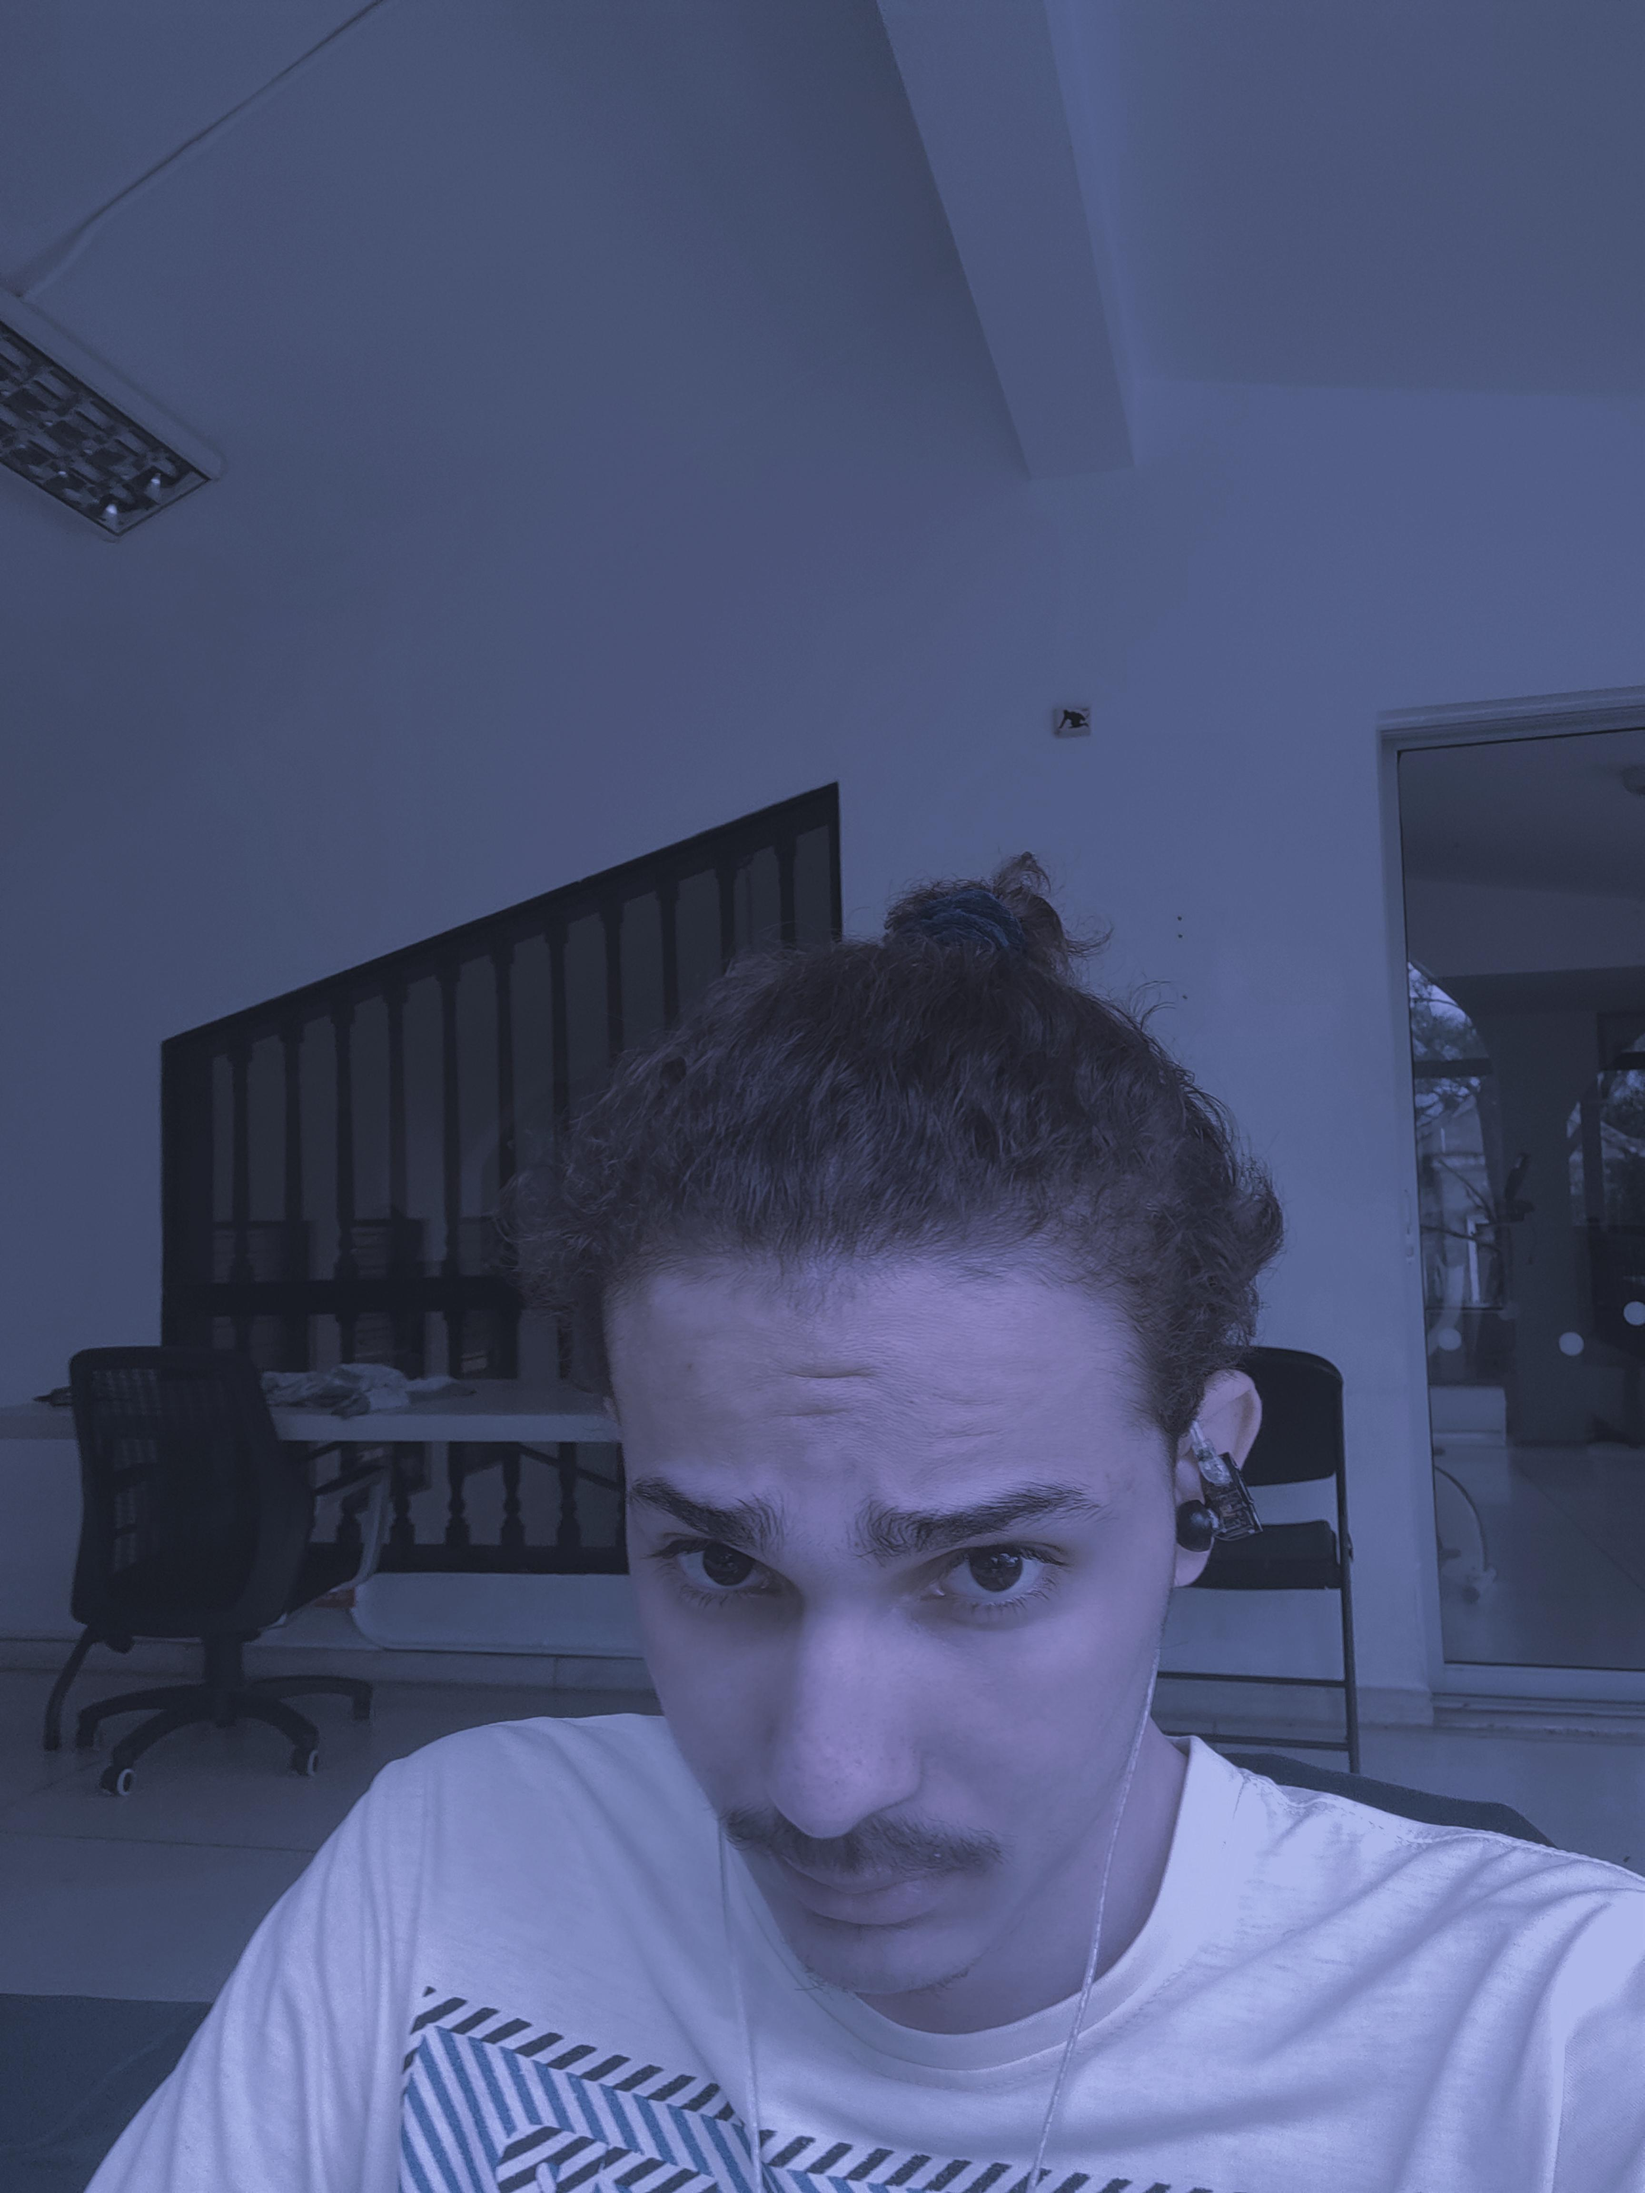
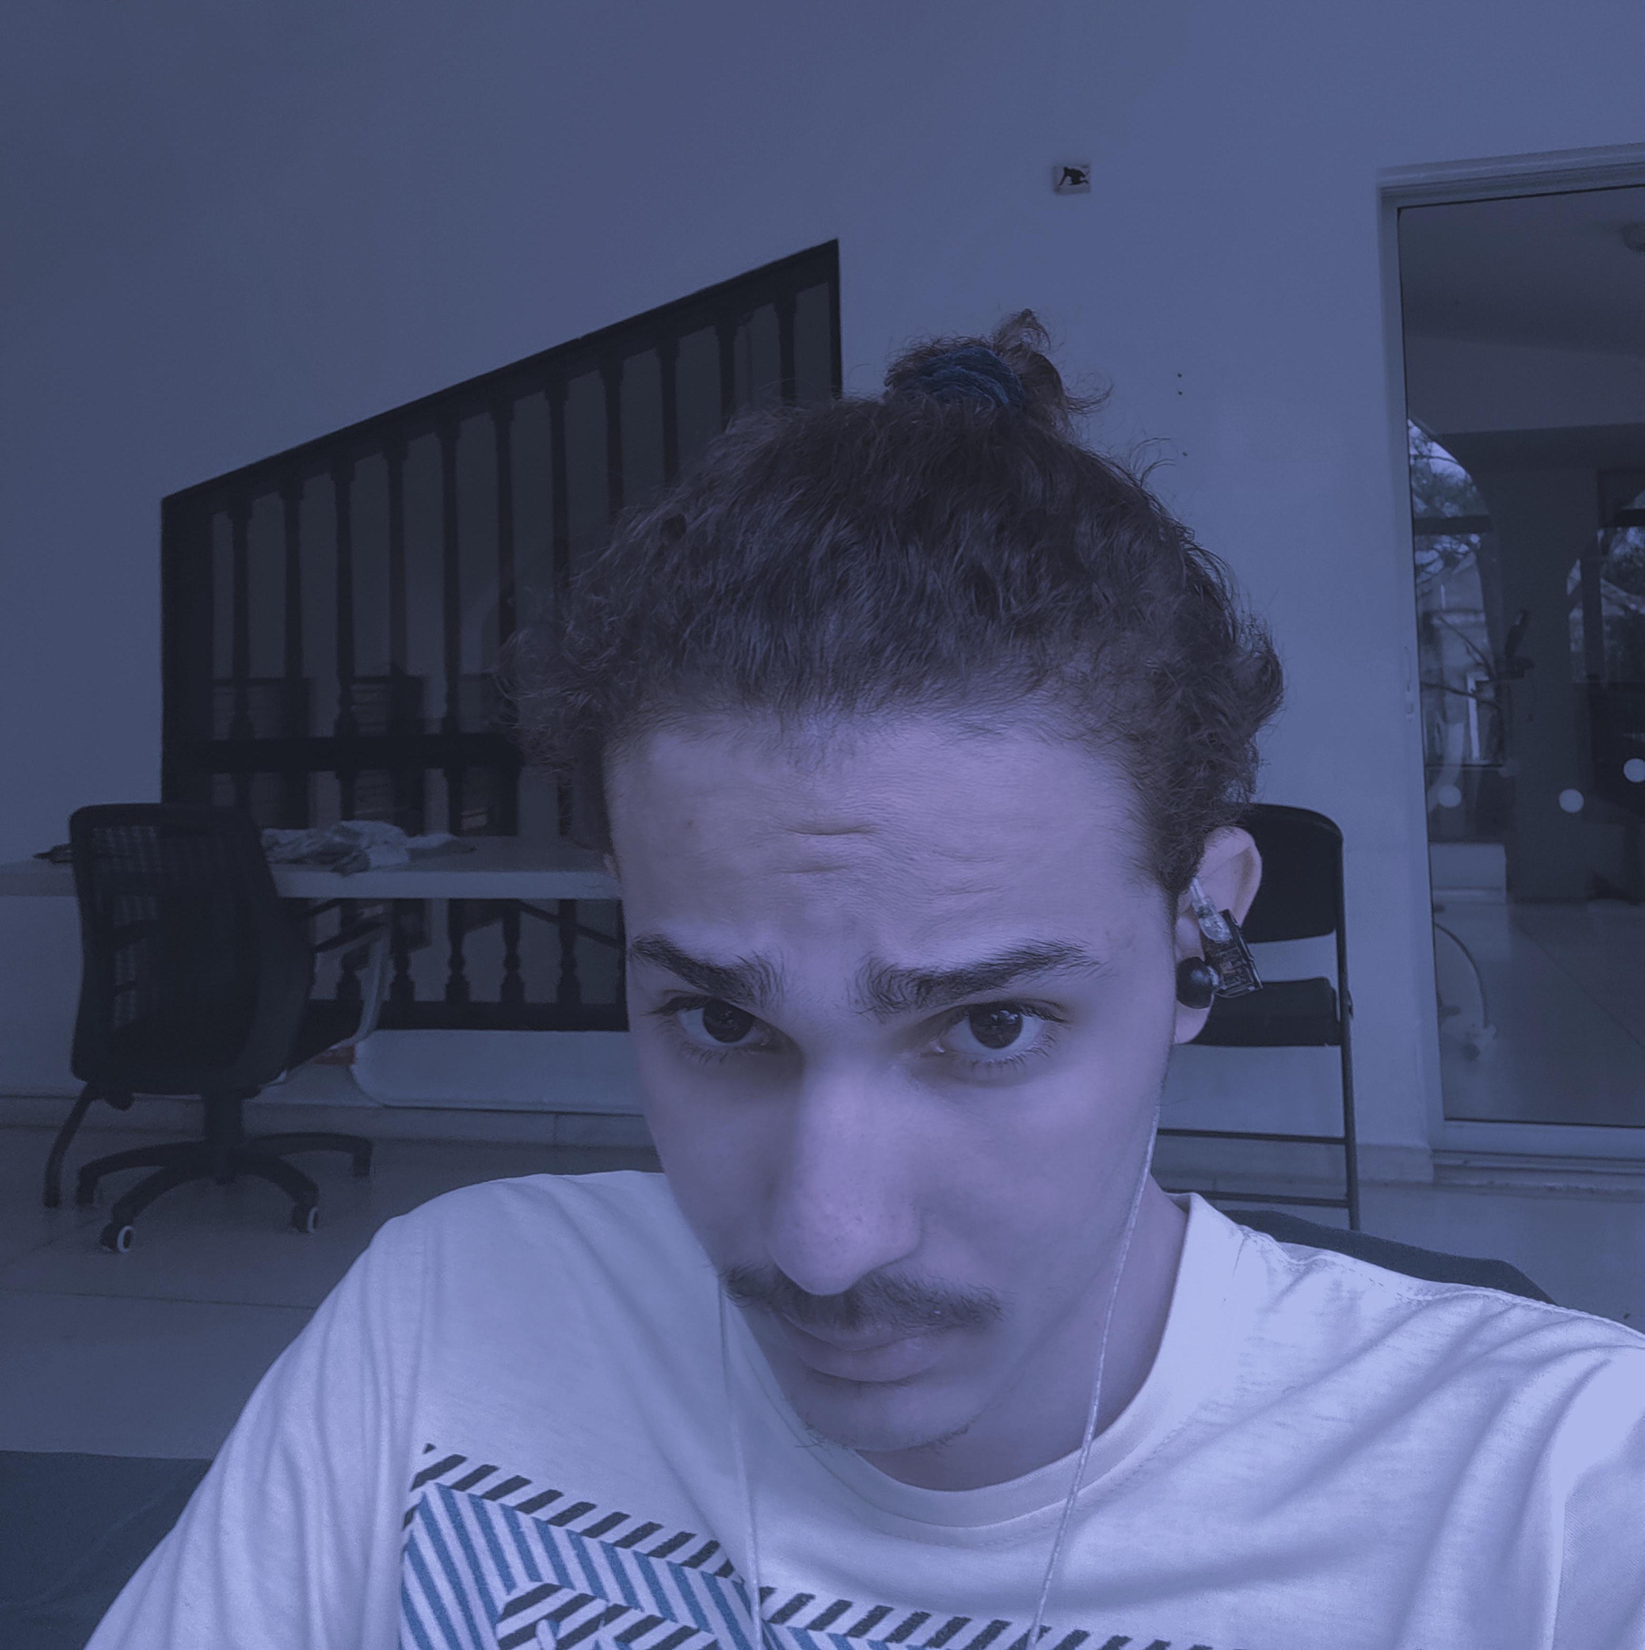
fix: active lang indicator, imagenes modal-preview, limpia blog de nav i18n

diff --git a/index.html b/index.html
@@ -981,7 +981,7 @@
   <script>
     const i18n = {
       es: {
-        nav: { experience: 'Experiencia', projects: 'Proyectos', servicios: 'Servicios', setup: 'Setup', about: 'Sobre mí', blog: 'Blog', contact: 'Contacto', available: 'Disponible para trabajar', resume: 'Currículum' },
+        nav: { experience: 'Experiencia', projects: 'Proyectos', servicios: 'Servicios', setup: 'Setup', about: 'Sobre mí', contact: 'Contacto', available: 'Disponible para trabajar', resume: 'Currículum' },
         hero: { available: 'Disponible para trabajar', title: 'DevOps & Software Engineer', born: '🇩🇴 Nací en San Pedro de Macorís', passport: '🇨🇭 Pasaporte suizo', lives: '🏔 Vivo en Jarabacoa', tagline: 'Building full-stack · Arch Linux · Neovim', getInTouch: 'Contáctame', previewCv: 'Vista previa CV' },
         exp: {
           heading: 'Experiencia', subtitle: 'Mi trayectoria profesional',
@@ -1054,7 +1054,7 @@
         }
       },
       en: {
-        nav: { experience: 'Experience', projects: 'Projects', servicios: 'Services', setup: 'Setup', about: 'About', blog: 'Blog', contact: 'Contact', available: 'Available for work', resume: 'Resume' },
+        nav: { experience: 'Experience', projects: 'Projects', servicios: 'Services', setup: 'Setup', about: 'About', contact: 'Contact', available: 'Available for work', resume: 'Resume' },
         hero: { available: 'Available for work', title: 'DevOps & Software Engineer', born: '🇩🇴 Born in San Pedro de Macorís', passport: '🇨🇭 Swiss passport', lives: '🏔 Lives in Jarabacoa', tagline: 'Building full-stack · Arch Linux · Neovim', getInTouch: 'Get in touch', previewCv: 'Preview CV' },
         exp: {
           heading: 'Experience', subtitle: 'My professional journey',
@@ -1127,7 +1127,7 @@
         }
       },
       de: {
-        nav: { experience: 'Erfahrung', projects: 'Projekte', servicios: 'Services', setup: 'Setup', about: 'Über mich', blog: 'Blog', contact: 'Kontakt', available: 'Verfügbar für Arbeit', resume: 'Lebenslauf' },
+        nav: { experience: 'Erfahrung', projects: 'Projekte', servicios: 'Services', setup: 'Setup', about: 'Über mich', contact: 'Kontakt', available: 'Verfügbar für Arbeit', resume: 'Lebenslauf' },
         hero: { available: 'Verfügbar für Arbeit', title: 'DevOps & Software Engineer', born: '🇩🇴 Geboren in San Pedro de Macorís', passport: '🇨🇭 Schweizer Pass', lives: '🏔 Lebt in Jarabacoa', tagline: 'Full-Stack-Entwicklung · Arch Linux · Neovim', getInTouch: 'Kontakt aufnehmen', previewCv: 'CV Vorschau' },
         exp: {
           heading: 'Erfahrung', subtitle: 'Mein beruflicher Werdegang',
@@ -1220,8 +1220,20 @@
       if (techDesc && techDesc.dataset.i18n === 'stack.hint') {
         techDesc.textContent = i18n[lang].stack.hint;
       }
-      // Update dropdown label
+      // Update dropdown label and highlight active language
       document.getElementById('current-lang-label').textContent = lang.toUpperCase();
+      document.querySelectorAll('.lang-dropdown-item').forEach(item => {
+        const itemLang = item.getAttribute('data-lang') || item.textContent.toLowerCase().trim();
+        if (itemLang === lang) {
+          item.innerHTML = `${lang.toUpperCase()} ✓`;
+          item.style.color = 'var(--text-primary)';
+          item.style.fontWeight = '600';
+        } else {
+          item.textContent = itemLang.toUpperCase();
+          item.style.color = 'var(--text-muted)';
+          item.style.fontWeight = '';
+        }
+      });
     }
 
     function toggleLangDropdown() {
@@ -1368,7 +1380,8 @@
         title: 'Dashboard React',
         description: 'Panel de administración completo con gráficos interactivos (Chart.js), calculadora integrada, sistema de contador y TO-DO list con persistencia. Desarrollo con React y react-router-dom para navegación SPA. Una muestra de mi capacidad para construir interfaces funcionales, reactivas y bien organizadas.',
         url: 'https://dhardi007.github.io/REACT-Diego-Dizzi-Dashboard/',
-        code: 'https://github.com/dizzi1222/REACT-Diego-Dizzi-Dashboard'
+        code: 'https://github.com/dizzi1222/REACT-Diego-Dizzi-Dashboard',
+        image: 'assets/modal-tech-Dashboard-REACT.png'
       },
       {
         title: 'Terminal Portfolio',
@@ -1380,7 +1393,8 @@
         title: 'Dotfiles',
         description: 'Configuración completa de mi entorno Arch Linux con Hyprland como compositor Wayland. Incluye Neovim (LazyVim) con plugins personalizados, Kitty como terminal, Zsh con powerlevel10k, Waybar, EWW widgets para system tray personalizado, Rofi como lanzador de apps, y wallpapers curados. Git bare repo para gestionar los dotfiles en mi home sin contaminar el sistema.',
         url: 'https://github.com/dizzi1222/dotfiles-dizzi',
-        code: 'https://github.com/dizzi1222/dotfiles-dizzi'
+        code: 'https://github.com/dizzi1222/dotfiles-dizzi',
+        image: 'assets/modal-tech-dotfiles.png'
       },
       {
         title: 'MCSD App',
@@ -1399,8 +1413,8 @@
         title: 'Nvim Config',
         description: 'Configuración universal de Neovim con LazyVim como base. LSP completo para TypeScript, JavaScript, Lua y CSS. Snippets personalizados, Telescope para búsqueda, y atajos tipo IDE. Sincronización multiplataforma entre Linux (Hyprland), WSL y Windows. Setup gestionado con dotfiles, sync scripts y PowerToys.',
         url: 'https://github.com/dizzi1222/nvim',
-        code: 'https://github.com/dizzi1222/nvim-wsl',
-        image: 'https://github.com/user-attachments/assets/8adb6f60-bb35-4704-b4ab-12bd587f3992'
+        code: 'https://github.com/dizzi1222/nvim',
+        image: 'assets/modal-tech-nvim.png'
       }
     ];
 
